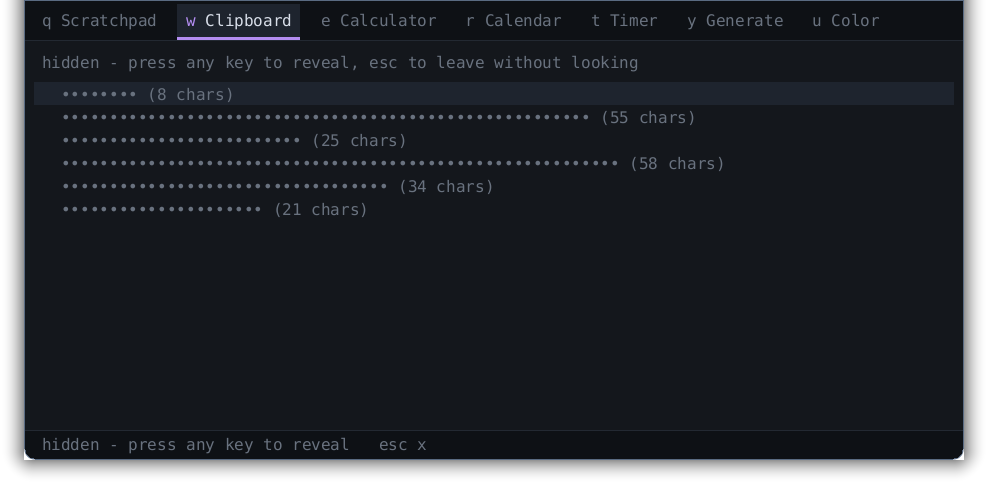
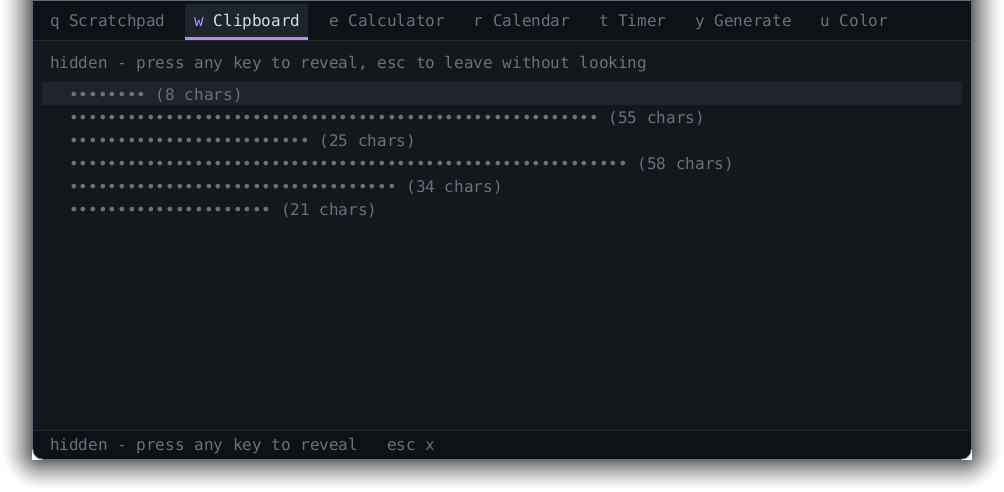
Widen the shadow, which was nearly all in its first few pixels
Reported as "very, very subtle". Measuring the alpha profile said why: a
square falloff over 24px put almost the whole shadow in the first third
of the margin, so past 12px it was under 10% black and there was nothing
to see. Now 32px with an exponent of 1.5, which keeps the outer edge soft
-- the only reason to curve it at all -- while leaving something further
out: 19% black at 18px where it used to be 2%.

The rest is not a tuning problem. A black shadow works by darkening what
is behind it, and a dark desktop gives it very little to darken: the same
56% shadow moves a channel by 26 against a dark background and by 127
against a light one. Rendered over both at once it is obvious on the
light half and nearly invisible on the dark half, same pixels, same
frame. No alpha fixes that without smearing the light case.

So the border remains the thing that actually separates the panel -- it
is a colour rather than a darkening, and works against anything. The
shadow is depth on top of that. All three constants are named if it wants
tuning again.

diff --git a/crates/dropkick-linux/src/render.rs b/crates/dropkick-linux/src/render.rs
@@ -22,14 +22,28 @@ pub const HEIGHT: u32 = 460;
 /// Left, right and below only. The panel is anchored to the top of the screen
 /// with no margin, so a shadow above it would fall off the edge -- the same
 /// reason the top corners are square.
-pub const SHADOW: u32 = 24;
+pub const SHADOW: u32 = 32;
 
 /// The surface Dropkick actually asks for: the panel plus room for its shadow.
 pub const SURFACE_W: u32 = WIDTH + SHADOW * 2;
 pub const SURFACE_H: u32 = HEIGHT + SHADOW;
 
 /// Darkest the shadow gets, right against the panel edge.
-const SHADOW_ALPHA: f32 = 115.0;
+const SHADOW_ALPHA: f32 = 150.0;
+
+/// How quickly the shadow gives up as it moves away from the panel.
+///
+/// Was 2.0, and that was wrong: a square falloff puts nearly all of the shadow
+/// in the first third of the margin, so past about 12px it was under 10% black
+/// and simply not visible. 1.5 keeps the outer edge soft -- which is why the
+/// falloff is curved at all -- while leaving something to see further out.
+///
+/// Worth knowing when tuning: **a black shadow on a dark desktop has very
+/// little to work with.** Against a mid-grey window, 40% black moves a channel
+/// by about 18 levels; against a light one it moves it by nearly 100. There is
+/// no value here that makes it strong on a dark background without making it a
+/// smear on a light one.
+const SHADOW_FALLOFF: f32 = 1.5;
 
 const TAB_H: i32 = 40;
 const HINT_H: i32 = 30;
@@ -148,7 +162,7 @@ fn draw_shadow(canvas: &mut Canvas) {
                 continue;
             }
             let t = 1.0 - d / m;
-            let a = (SHADOW_ALPHA * t * t).round() as u8;
+            let a = (SHADOW_ALPHA * t.powf(SHADOW_FALLOFF)).round() as u8;
             if a > 0 {
                 canvas.put_alpha(x, y, 0x00_0000, a);
             }

diff --git a/docs/PROJECT_LOG.md b/docs/PROJECT_LOG.md
@@ -1764,6 +1764,43 @@ All six committed images were regenerated and carry real transparency.
 That is the second time in this project that generating an image counted as
 reviewing it. It does not.
 
+### TOO SUBTLE — measured and widened (user, 2026-08-25)
+
+"Very, very subtle, but I can kinda see it." Measuring the alpha profile said
+why: with a **square** falloff over 24px, almost the whole shadow sat in the
+first third of the margin.
+
+```
+        0px   3    6    9   12   15   18   21
+was    42%  31%  23%  15%   9%   5%   2%   0%
+now    56%  49%  43%  36%  30%  24%  19%  14%     (32px, exponent 1.5)
+```
+
+The outer edge is still soft, which is the only reason the falloff is curved at
+all — but there is now something to see at 16px out rather than 3% of nothing.
+
+**The rest is not fixable by tuning, and is worth writing down.** A black shadow
+works by darkening what is behind it, and there is very little to darken on a
+dark desktop. The same 56% shadow moves a channel by:
+
+| behind it | channel moves by |
+|---|---|
+| dark desktop (46) | 26 |
+| mid grey (128) | 72 |
+| light desktop (226) | 127 |
+
+Five times the effect on a light background. Rendered over both at once, the
+shadow is obvious on the light half and nearly invisible on the dark half —
+same pixels, same frame. No value of `SHADOW_ALPHA` fixes the dark case without
+making the light one a smear.
+
+Which is why **the border is the thing that actually separates the panel**, and
+the shadow is depth on top of it. The border works against any background
+because it is a colour, not a darkening.
+
+`SHADOW`, `SHADOW_ALPHA` and `SHADOW_FALLOFF` are all constants if it wants
+tuning again.
+
 ## NEXT
 
 The interaction grammar is settled, so: the tab bar plus two tools, far enough
